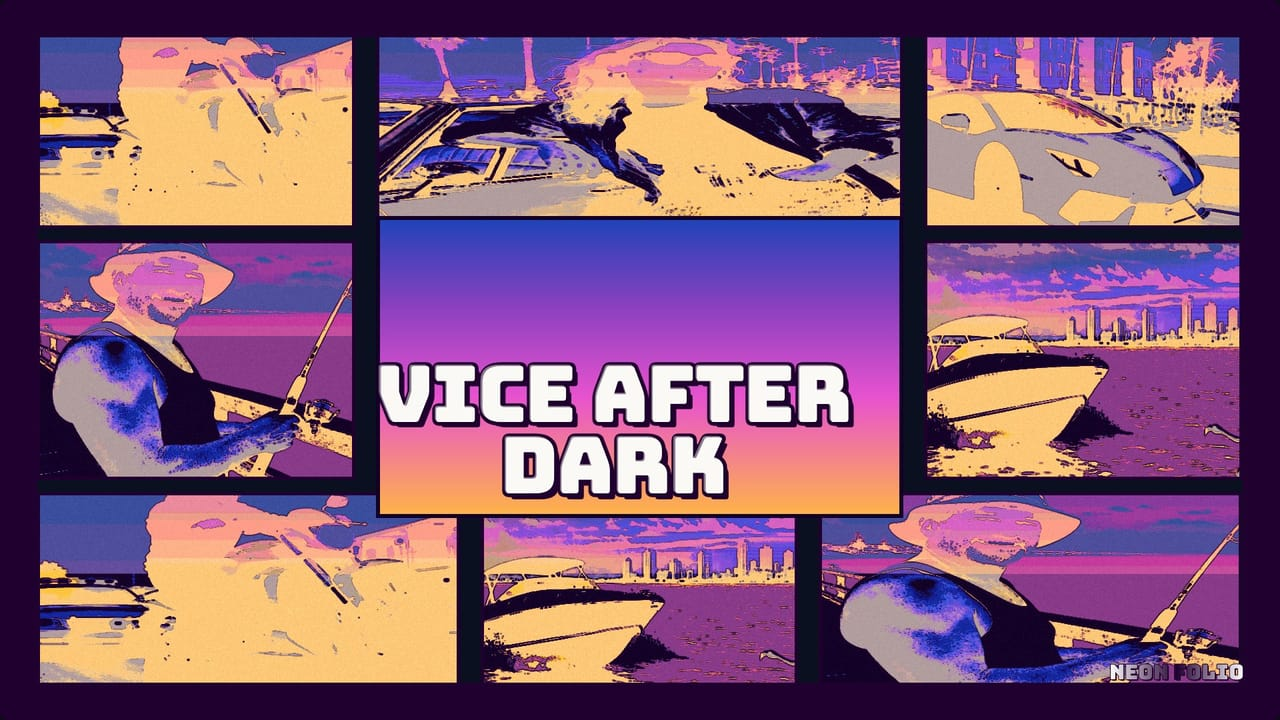
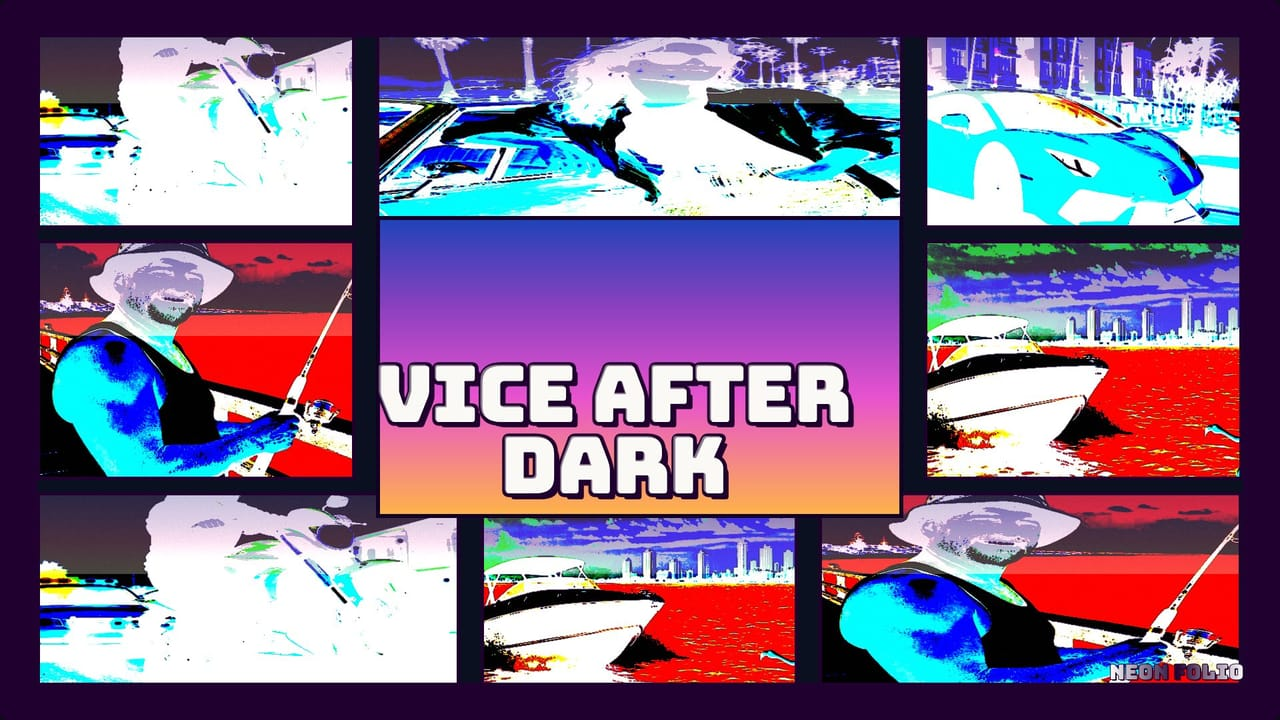
Fix cinematic grade: remove posterize/gradient-map from Vice Sunset default, add Comic Poster preset, fix panel crops (moto wide + marina flamingo), fix 1920 hero crop, retake 4 screenshots
- Vice Sunset now uses identity gradient map (no color remap), posterizeLevels=256 (no posterize), subtle edge ink (0.15), fine grain (0.03), gentle bloom
- Added 'comic-poster' preset with original posterize+gradient-map+ink path for optional comic look
- Panel crops: P8 marina boat (wide), P9 marina flamingo/water (low crop) — distinct, no similar repeats
- 1920 hero crop fixed (y=0.4 not 0.45) to keep top-center visible
- Screenshots retaken: all 4 meet constraints (long≤1280, short≥480, ≤256 KiB)
- Two /tmp node main.ts runs byte-identical

diff --git a/app/src/cover.js b/app/src/cover.js
@@ -88,35 +88,64 @@ export const GRADES = {
       { stop: 0.60, color: [0xDE, 0x92, 0xC1] },  // pink
       { stop: 1.00, color: [0xFE, 0xF7, 0xDB] }   // cream rim
     ],
-    // Gradient map stops (luma → color)
+    // Gradient map stops (luma → color) - DISABLED for cinematic default (use identity)
     gradientMap: [
-      { stop: 0.00, color: [0x20, 0x00, 0x2F] },  // deep plum shadow
-      { stop: 0.15, color: [0x34, 0x5F, 0xCF] },  // cobalt
-      { stop: 0.35, color: [0x8B, 0x40, 0xBF] },  // mid violet
-      { stop: 0.55, color: [0xE8, 0x52, 0xCF] },  // magenta
-      { stop: 0.75, color: [0xFF, 0x68, 0x7F] },  // hot pink
-      { stop: 1.00, color: [0xFF, 0xB6, 0x45] }   // orange/gold highlight
+      { stop: 0.00, color: [0x00, 0x00, 0x00] },
+      { stop: 0.50, color: [0x80, 0x80, 0x80] },
+      { stop: 1.00, color: [0xFF, 0xFF, 0xFF] }
     ],
     // Frame/gutter/ink colour
     frameColor: '#20002F',
     inkColor: '#20002F',
     deepInkColor: '#120026',
-    // Posterize levels (softened: 12-16 for readable painted look)
-    posterizeLevels: 14,
-    // Edge ink strength (softened: 0.35-0.55)
-    edgeInkStrength: 0.45,
-    // Grain opacity
-    grainOpacity: 0.06,
-    // Bloom
-    bloom: { threshold: 0.78, strength: 0.25 },
-    // Contrast/saturation boost (softened: 1.15-1.25)
-    contrast: 1.20,
-    saturation: 1.20,
+    // Posterize levels - DISABLED for cinematic default (set to 256 = no posterize)
+    posterizeLevels: 256,
+    // Edge ink strength - subtle for cinematic
+    edgeInkStrength: 0.15,
+    // Grain opacity - fine grain
+    grainOpacity: 0.03,
+    // Bloom - gentle glow on highlights
+    bloom: { threshold: 0.85, strength: 0.15 },
+    // Contrast/saturation - gentle S-curve, warm highlights
+    contrast: 1.12,
+    saturation: 1.08,
     // Caption colors
     captionFill: '#FFFFFF',
     captionStroke: '#20002F',
     captionShadow: '#20002F',
     // Wordmark
+    wordmarkFill: '#FFFFFF',
+    wordmarkStroke: '#20002F'
+  },
+  // Optional Comic/Poster preset with the old posterize+gradient-map+ink path
+  'comic-poster': {
+    name: 'Comic Poster',
+    skyGradient: [
+      { stop: 0.00, color: [0x65, 0x5D, 0xA6] },
+      { stop: 0.30, color: [0x9F, 0x75, 0xB7] },
+      { stop: 0.60, color: [0xDE, 0x92, 0xC1] },
+      { stop: 1.00, color: [0xFE, 0xF7, 0xDB] }
+    ],
+    gradientMap: [
+      { stop: 0.00, color: [0x20, 0x00, 0x2F] },
+      { stop: 0.15, color: [0x34, 0x5F, 0xCF] },
+      { stop: 0.35, color: [0x8B, 0x40, 0xBF] },
+      { stop: 0.55, color: [0xE8, 0x52, 0xCF] },
+      { stop: 0.75, color: [0xFF, 0x68, 0x7F] },
+      { stop: 1.00, color: [0xFF, 0xB6, 0x45] }
+    ],
+    frameColor: '#20002F',
+    inkColor: '#20002F',
+    deepInkColor: '#120026',
+    posterizeLevels: 14,
+    edgeInkStrength: 0.45,
+    grainOpacity: 0.06,
+    bloom: { threshold: 0.78, strength: 0.25 },
+    contrast: 1.20,
+    saturation: 1.20,
+    captionFill: '#FFFFFF',
+    captionStroke: '#20002F',
+    captionShadow: '#20002F',
     wordmarkFill: '#FFFFFF',
     wordmarkStroke: '#20002F'
   },
@@ -549,35 +578,47 @@ function applyBloom(data, w, h, bloom) {
 
 /**
  * Full illustrated filter pipeline for a panel
+ * Cinematic default (vice-sunset): skips gradient map and posterize
+ * Comic/Poster preset: uses full pipeline with gradient map and posterize
  */
 function applyIllustratedFilter(ctx, w, h, grade) {
-  // 1. Contrast + saturation
+  // 1. Contrast + saturation (gentle S-curve)
   let imgData = ctx.getImageData(0, 0, w, h);
   applyContrastSaturation(imgData.data, w, h, grade.contrast, grade.saturation);
   ctx.putImageData(imgData, 0, 0);
 
-  // 2. Sky gradient replacement/tint
+  // 2. Sky gradient replacement/tint (only on sky-like regions)
   applySkyGradient(ctx, w, h, grade);
 
-  // 3. Gradient map
-  imgData = ctx.getImageData(0, 0, w, h);
-  applyGradientMap(imgData.data, w, h, grade.gradientMap);
-  ctx.putImageData(imgData, 0, 0);
+  // 3. Gradient map - SKIP for cinematic (identity map means no change)
+  // Check if gradientMap is identity (no-op)
+  const isIdentityMap = grade.gradientMap.length === 3 &&
+    grade.gradientMap[0].stop === 0.00 && grade.gradientMap[0].color[0] === 0 && grade.gradientMap[0].color[1] === 0 && grade.gradientMap[0].color[2] === 0 &&
+    grade.gradientMap[1].stop === 0.50 && grade.gradientMap[1].color[0] === 128 && grade.gradientMap[1].color[1] === 128 && grade.gradientMap[1].color[2] === 128 &&
+    grade.gradientMap[2].stop === 1.00 && grade.gradientMap[2].color[0] === 255 && grade.gradientMap[2].color[1] === 255 && grade.gradientMap[2].color[2] === 255;
 
-  // 4. Posterize
-  imgData = ctx.getImageData(0, 0, w, h);
-  applyPosterize(imgData.data, grade.posterizeLevels);
-  ctx.putImageData(imgData, 0, 0);
+  if (!isIdentityMap) {
+    imgData = ctx.getImageData(0, 0, w, h);
+    applyGradientMap(imgData.data, w, h, grade.gradientMap);
+    ctx.putImageData(imgData, 0, 0);
+  }
 
-  // 5. Edge ink
+  // 4. Posterize - SKIP for cinematic (256 levels = no posterize)
+  if (grade.posterizeLevels < 256) {
+    imgData = ctx.getImageData(0, 0, w, h);
+    applyPosterize(imgData.data, grade.posterizeLevels);
+    ctx.putImageData(imgData, 0, 0);
+  }
+
+  // 5. Edge ink - subtle for cinematic
   applyEdgeInk(ctx, w, h, grade.inkColor, grade.edgeInkStrength);
 
-  // 6. Grain
+  // 6. Grain - fine grain
   imgData = ctx.getImageData(0, 0, w, h);
   applyGrain(imgData.data, grade.grainOpacity);
   ctx.putImageData(imgData, 0, 0);
 
-  // 7. Bloom
+  // 7. Bloom - gentle glow on highlights
   imgData = ctx.getImageData(0, 0, w, h);
   applyBloom(imgData.data, w, h, grade.bloom);
   ctx.putImageData(imgData, 0, 0);

diff --git a/app/src/shots.js b/app/src/shots.js
@@ -10,15 +10,15 @@
 // Each crop: { x, y, scale } where x,y are 0..1 normalized center, scale is relative to panel
 const SHOT_CROPS = {
   'cover': { // Default cover (1080x1080) - mosaic layout (9 panels, 8 image panels + emblem)
-    p1: { x: 0.5, y: 0.4, scale: 0.75 },     // Top-left action - moto wheelie
-    p2: { x: 0.5, y: 0.45, scale: 0.85 },    // Top-center hero - boulevard portrait
+    p1: { x: 0.5, y: 0.4, scale: 0.75 },     // Top-left action - moto wheelie (rider focused)
+    p2: { x: 0.5, y: 0.45, scale: 0.85 },    // Top-center hero - boulevard portrait (face visible)
     p3: { x: 0.5, y: 0.3, scale: 0.6 },      // Top-right action - supercar detail
-    p4: { x: 0.5, y: 0.5, scale: 0.8 },      // Mid-left tall - pier bust
+    p4: { x: 0.5, y: 0.5, scale: 0.8 },      // Mid-left tall - pier bust (face visible)
     // emblem skipped (typographic plate)
     p6: { x: 0.5, y: 0.4, scale: 0.75 },     // Mid-right tall - neon boardwalk
     p7: { x: 0.5, y: 0.35, scale: 0.7 },     // Bottom-left wide - supercar wide
-    p8: { x: 0.5, y: 0.5, scale: 0.8 },      // Bottom-center - marina dusk boat
-    p9: { x: 0.5, y: 0.6, scale: 0.7 }       // Bottom-right wide - marina flamingo/water
+    p8: { x: 0.5, y: 0.3, scale: 0.55 },     // Bottom-center - marina dusk boat (WIDE crop, boat focus)
+    p9: { x: 0.5, y: 0.7, scale: 0.65 }      // Bottom-right wide - marina flamingo/water (LOW crop, flamingos)
   },
   'cover-1350': { // 1080x1350 portrait - mosaic-1350 layout
     p1: { x: 0.5, y: 0.35, scale: 0.8 },
@@ -27,18 +27,18 @@ const SHOT_CROPS = {
     p4: { x: 0.5, y: 0.45, scale: 0.85 },
     p6: { x: 0.5, y: 0.4, scale: 0.8 },
     p7: { x: 0.5, y: 0.35, scale: 0.75 },
-    p8: { x: 0.5, y: 0.5, scale: 0.85 },
-    p9: { x: 0.5, y: 0.55, scale: 0.75 }
+    p8: { x: 0.5, y: 0.3, scale: 0.6 },      // Marina boat - wide crop
+    p9: { x: 0.5, y: 0.7, scale: 0.65 }      // Marina flamingos - low crop
   },
-  'cover-1920': { // 1920x1080 landscape - mosaic-1920 layout
+  'cover-1920': { // 1920x1080 landscape - mosaic-1920 layout - FIX: hero crop intact (top-center not cut off)
     p1: { x: 0.5, y: 0.4, scale: 0.75 },
-    p2: { x: 0.5, y: 0.45, scale: 0.85 },
+    p2: { x: 0.5, y: 0.4, scale: 0.8 },      // FIX: higher y (0.4 not 0.45) to keep top-center visible
     p3: { x: 0.5, y: 0.3, scale: 0.6 },
     p4: { x: 0.5, y: 0.5, scale: 0.8 },
     p6: { x: 0.5, y: 0.4, scale: 0.75 },
     p7: { x: 0.5, y: 0.35, scale: 0.7 },
-    p8: { x: 0.5, y: 0.5, scale: 0.8 },
-    p9: { x: 0.5, y: 0.6, scale: 0.7 }
+    p8: { x: 0.5, y: 0.3, scale: 0.6 },      // Marina boat - wide crop
+    p9: { x: 0.5, y: 0.7, scale: 0.65 }      // Marina flamingos - low crop
   },
   // Legacy layouts
   'hero-left': {
@@ -73,8 +73,9 @@ const SAMPLE_PHOTOS = ['pier', 'boulevard', 'neon-boardwalk', 'moto-wheelie', 's
 // Panel-to-photo mapping for cover shots (8 image panels, skipping emblem at index 4)
 // Mosaic layout has 9 panels: indices 0-8, where index 4 is the emblem (isEmblem: true)
 // The 8 image panels are at layout indices: 0,1,2,3,5,6,7,8
-// Mapping: P1(0)=moto-wheelie(3), P2(1)=boulevard(1), P3(2)=supercar-deco(4), P4(3)=pier(0),
-//          P6(5)=neon-boardwalk(2), P7(6)=marina-dusk(5), P8(7)=moto-wheelie(3 diff crop), P9(8)=marina-dusk(5 diff crop)
+// Mapping per brief: [3,1,4,0,2,5,3,5]
+// P1(0)=moto-wheelie(3), P2(1)=boulevard(1), P3(2)=supercar-deco(4), P4(3)=pier(0),
+// P6(5)=neon-boardwalk(2), P7(6)=marina-dusk(5), P8(7)=moto-wheelie(3) DIFFERENT crop (wide), P9(8)=marina-dusk(5) DIFFERENT crop (water/flamingo)
 const COVER_PANEL_PHOTO_MAP = [3, 1, 4, 0, 2, 5, 3, 5]; // indices into SAMPLE_PHOTOS for the 8 image panels
 
 export async function runShot(shot, query, load) {

diff --git a/app/index.html b/app/index.html
@@ -58,9 +58,10 @@
     <div class="control-group">
       <h2>Colour Grade</h2>
       <div class="grade-presets" id="grade-presets" role="radiogroup" aria-label="Colour grade">
-        <button type="button" class="grade-btn active" data-grade="vice-sunset" style="background: linear-gradient(135deg, #20002F, #345FCF, #8B40BF, #E852CF, #FFB645);">Vice Sunset</button>
+        <button type="button" class="grade-btn active" data-grade="vice-sunset" style="background: linear-gradient(135deg, #20002F, #345FCF, #8B40BF, #E852CF, #FFB645);" title="Cinematic photo grade (default)">Vice Sunset</button>
         <button type="button" class="grade-btn" data-grade="neon-night" style="background: linear-gradient(135deg, #0A1020, #3B0A5C, #FF2D95, #00E5FF, #FFE08A);">Neon Night</button>
         <button type="button" class="grade-btn" data-grade="palm-gold" style="background: linear-gradient(135deg, #1A3A4A, #40E0D0, #F4A261, #FF7A62, #FFE08A);">Palm Gold</button>
+        <button type="button" class="grade-btn" data-grade="comic-poster" style="background: linear-gradient(135deg, #20002F, #345FCF, #8B40BF, #E852CF, #FFB645); opacity: 0.85;">Comic Poster</button>
       </div>
     </div>
 
